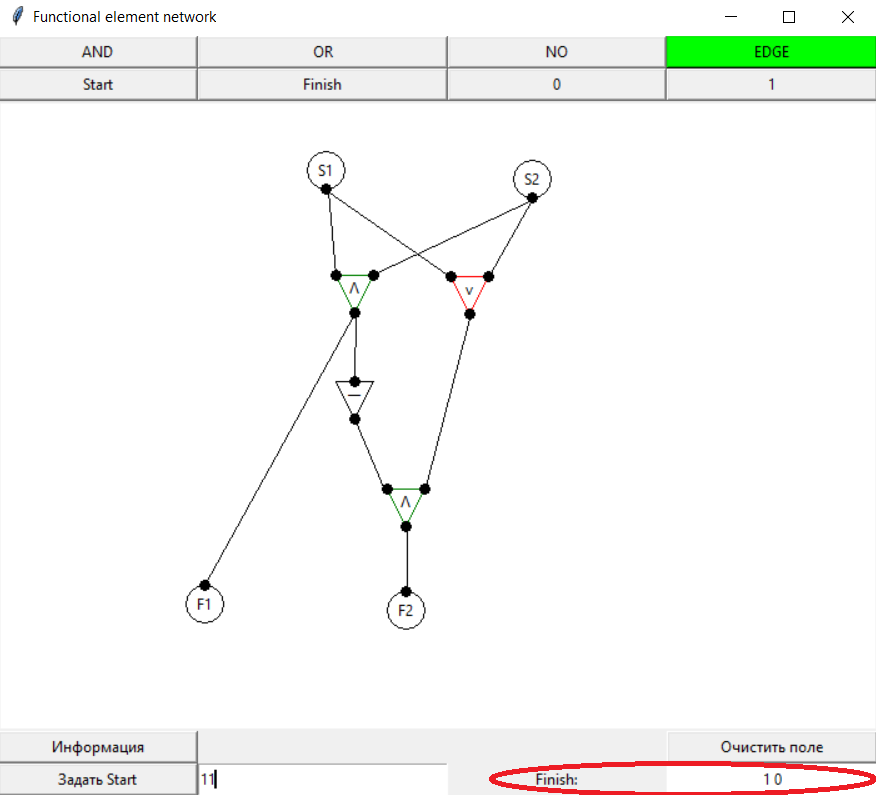
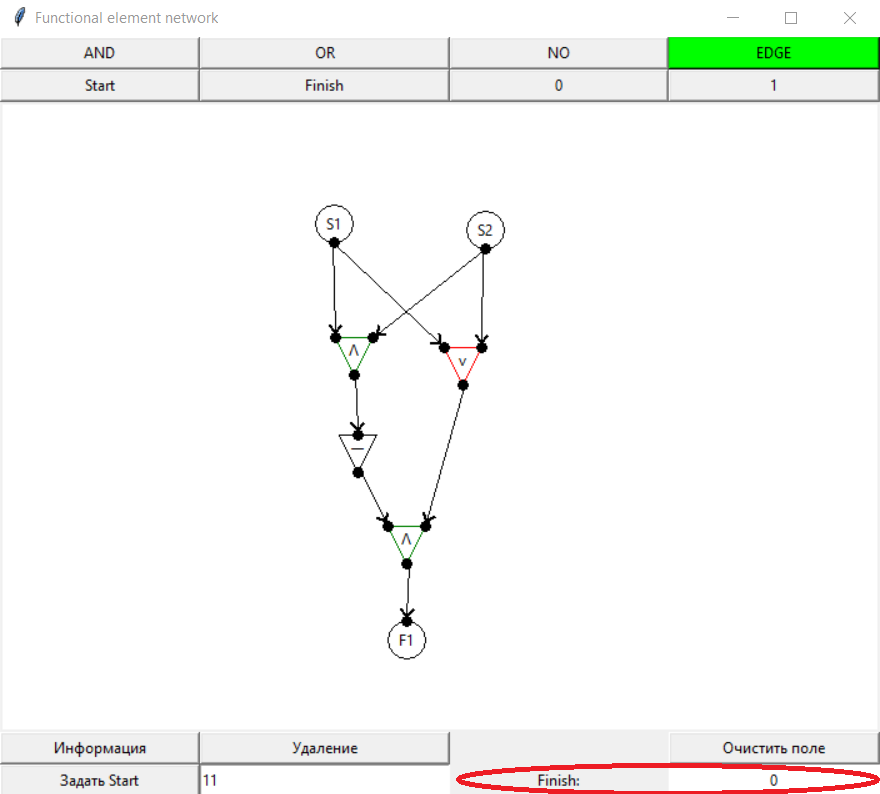
Changed README

diff --git a/app.py b/app.py
@@ -1,7 +1,7 @@
 from tkinter import *
 
 from calculator import calculate_finish_sign, generate_bit_set
-from geometry import calculate_cursor_points
+from geometry import calculate_cursor_points, shift_point
 
 canvas_width = 700
 canvas_height = 500
@@ -66,6 +66,12 @@ class func_versh_3:
             self.check_in1 = True
         elif (x - self.in2_x) ** 2 + (y - self.in2_y) ** 2 <= 16:
             self.check_in2 = True
+    
+    def select_in(self, x, y):
+        if (x - self.in1_x) ** 2 + (y - self.in1_y) ** 2 <= 16:
+            return self.in1_x, self.in1_y
+        elif (x - self.in2_x) ** 2 + (y - self.in2_y) ** 2 <= 16:
+            return self.in2_x, self.in2_y
 
     def in_False(self, x, y):
         if (x - self.in1_x) ** 2 + (y - self.in1_y) ** 2 <= 16:
@@ -93,11 +99,12 @@ class func_edge:
         self.line1 = None
         self.line2 = None
 
-    def draw(self):
-        self.line = canvas.create_line(self.in_x, self.in_y, self.out_x, self.out_y)
-        x1, y1, x2, y2 = calculate_cursor_points(self.out_x, self.out_y, self.in_x, self.in_y)
-        self.line1 = canvas.create_line(self.in_x, self.in_y, x1, y1, width=2)
-        self.line2 = canvas.create_line(self.in_x, self.in_y, x2, y2, width=2)
+    def draw(self, x, y):
+        x_new, y_new = shift_point(self.out_x, self.out_y, x, y)
+        self.line = canvas.create_line(x_new, y_new, self.out_x, self.out_y)
+        x1, y1, x2, y2 = calculate_cursor_points(self.out_x, self.out_y, x_new, y_new)
+        self.line1 = canvas.create_line(x_new, y_new, x1, y1, width=2)
+        self.line2 = canvas.create_line(x_new, y_new, x2, y2, width=2)
 
     def delete(self):
         canvas.delete(self.line)
@@ -329,7 +336,16 @@ def paint(event):
                 else:
                     EDGE[in1].append(in2)
                 EDGE_ELEMENT.append(a)
-                a.draw()
+                if flag:
+                    if type(class2) == func_versh_3:
+                        a.draw(*class2.select_in(event.x, event.y))
+                    else:
+                        a.draw(class2.in_x, class2.in_y)
+                else:
+                    if type(class1) == func_versh_3:
+                        a.draw(*class1.select_in(BUFFER_X, BUFFER_Y))
+                    else:
+                        a.draw(class1.in_x, class1.in_y)
                 try:
                     result = calculate_finish_sign([0] * len(START), FINALL, VERSH, EDGE)
                     flag = 1
@@ -683,8 +699,8 @@ bSTART = Button(text="Start", command=None)
 bFINISH = Button(text="Finish", command=None)
 bONE = Button(text="0", command=None)
 bZERO = Button(text="1", command=None)
-bDEL = Button(text="Удаление", command=None)
-bCREATE = Button(text="Построить", command=None)
+bDEL = Button(text="Удалить", command=None)
+bCREATE = Button(text="Посчитать", command=None)
 bCHECK = Button(text="Информация", command=None)
 bCLEAR = Button(text="Очистить поле", command=None)
 lSTART = Entry()

diff --git a/geometry.py b/geometry.py
@@ -44,7 +44,7 @@ def shift_point(x_start, y_start, x_finish, y_finish, shift_len=4):
     x_found = x_finish
     y_found = -y_finish
 
-    x_new_point = (x / norm_vec) * shift_len + x_found
-    y_new_point = (y / norm_vec) * shift_len + y_found
+    x_new_point = -(x / norm_vec) * shift_len + x_found
+    y_new_point = -(y / norm_vec) * shift_len + y_found
 
     return [x_new_point, -y_new_point]

diff --git a/README.md b/README.md
@@ -20,11 +20,11 @@
 
 Нажмите "Удалить"
 
-![](picture/OR_example.png)
+![](picture/DEL_selection.png)
 
 Она загорится зеленым и на СФЭ появятся красные точки
 
-![](picture/OR_example.png)
+![](picture/DEL_example.png)
 
 При нажатии на точку на элементе он удаляется.
 
@@ -40,9 +40,9 @@
 
 Если кнопка "задать Start" не активна, проверьте СФЭ, в нем есть элементы, которые посчитать невозможно(присутствует цикл или не все входы в элемент использованы)
 
-![](picture/start_example.png)
+![](picture/none_start_example.png)
 
-После чего появится кнопка "построить"
+После чего появится кнопка "Посчитать"
 
 ![](picture/build_example.png)
 
